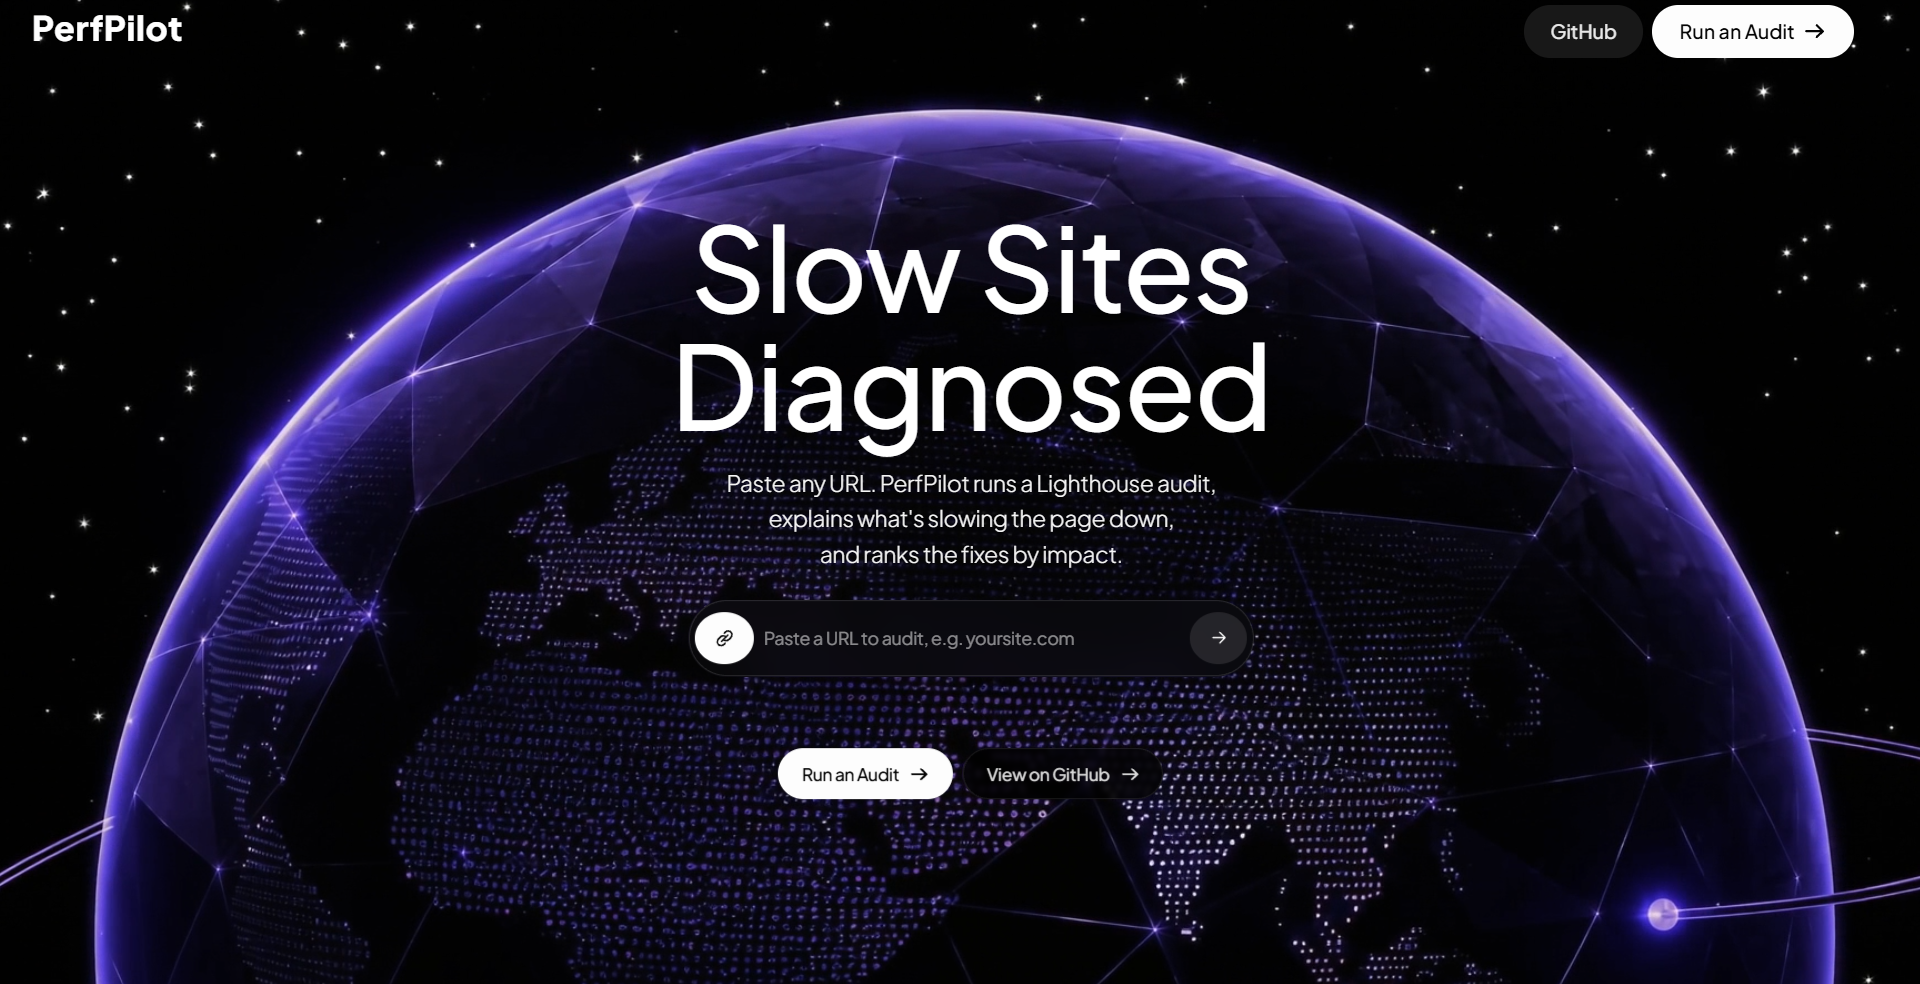
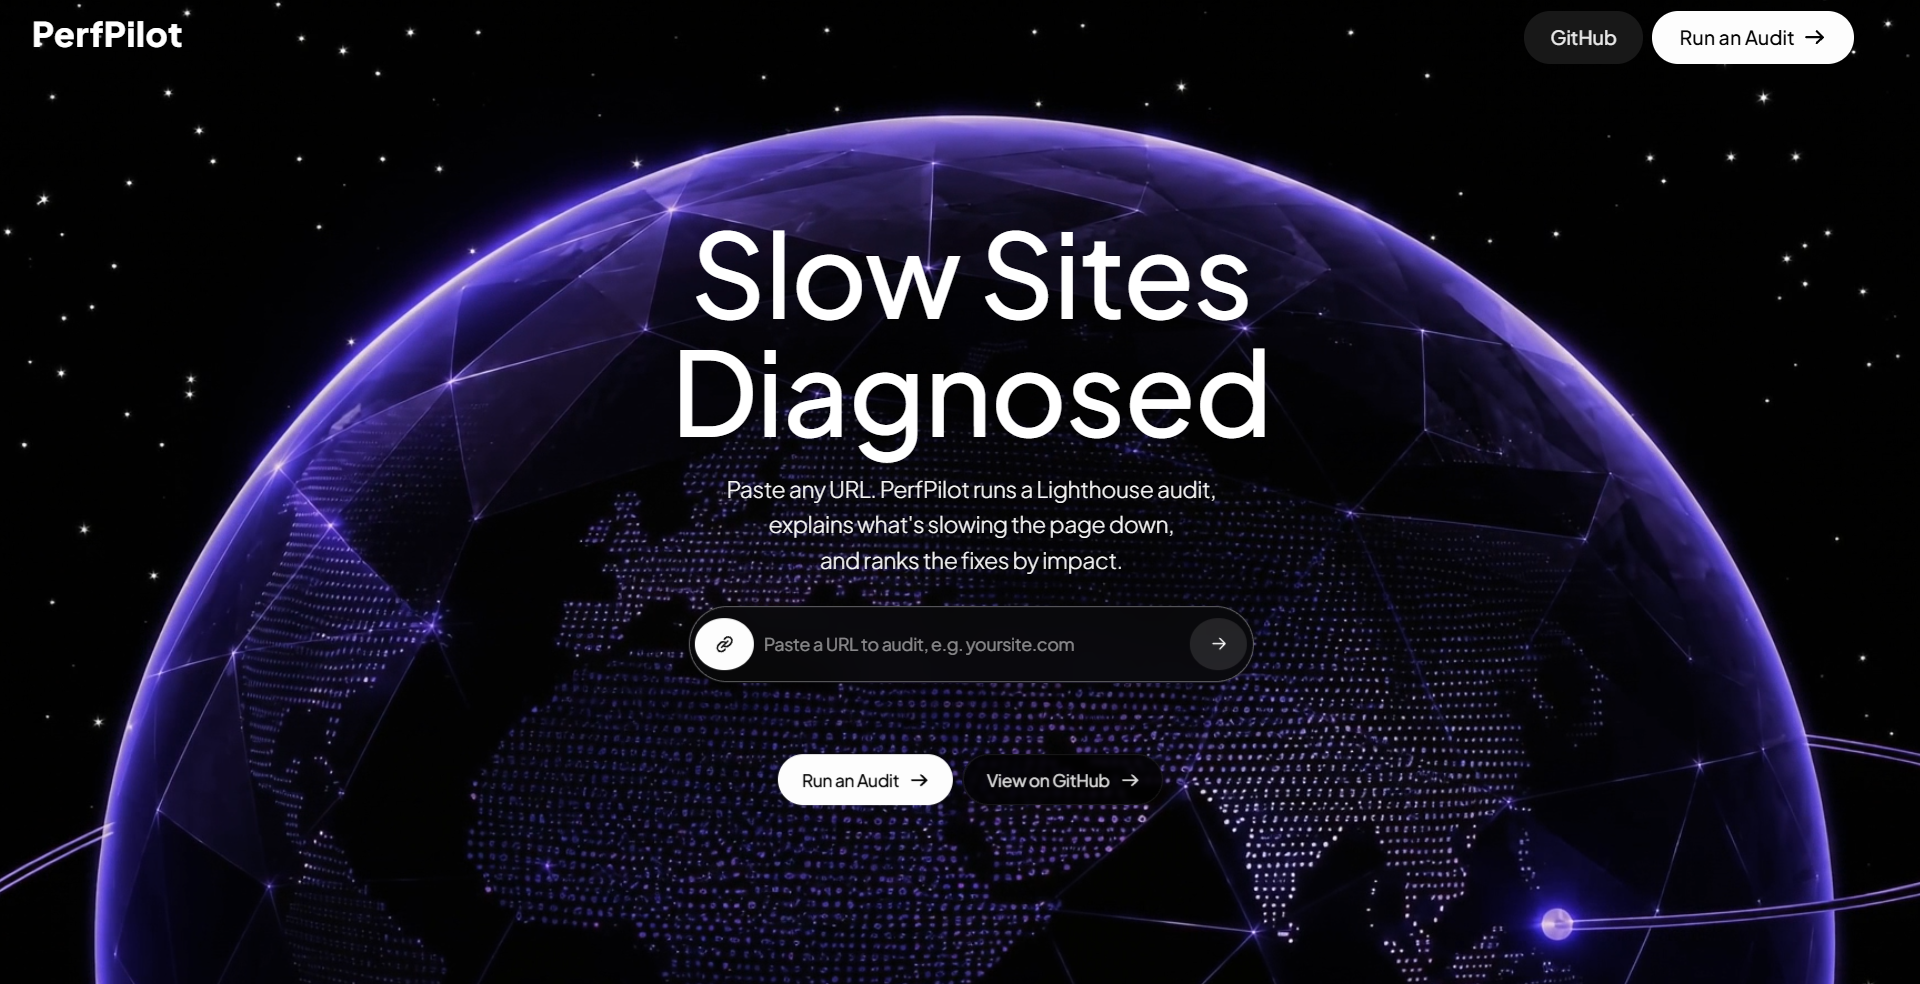
Update README

diff --git a/README.md b/README.md
@@ -2,7 +2,6 @@
 
 **Paste a URL. Get a Lighthouse audit, the fixes ranked by impact, and a plain-English explanation of each one, with code.**
 
-![PerfPilot demo](docs/demo.gif)
 
 <p>
   <img src="docs/hero.png" alt="PerfPilot landing page" width="49%" />
@@ -10,8 +9,6 @@
 </p>
 
 PerfPilot runs a real Lighthouse performance audit in headless Chrome, shrinks the multi-megabyte report down to the facts that matter, ranks the problems with deterministic code, and then asks an LLM to explain only those problems. If the LLM is down, rate-limited, or returns bad JSON, you still get a complete report built from templates.
-
-> **Live demo:** not hosted. Lighthouse drives a real Chrome and needs roughly 1 to 2 GB of RAM, and I couldn't find a free, no-card host with that much. See the demo video above, or run it locally in about five minutes (below).
 
 
 ---
@@ -188,7 +185,8 @@ frontend/
     lib/api.ts                    API client
     components/                   Hero, UrlInput, Results, Navbar
 docs/
-  CASE_STUDY.md
+  hero.png
+  results.png
 ```
 
 ## Limitations
